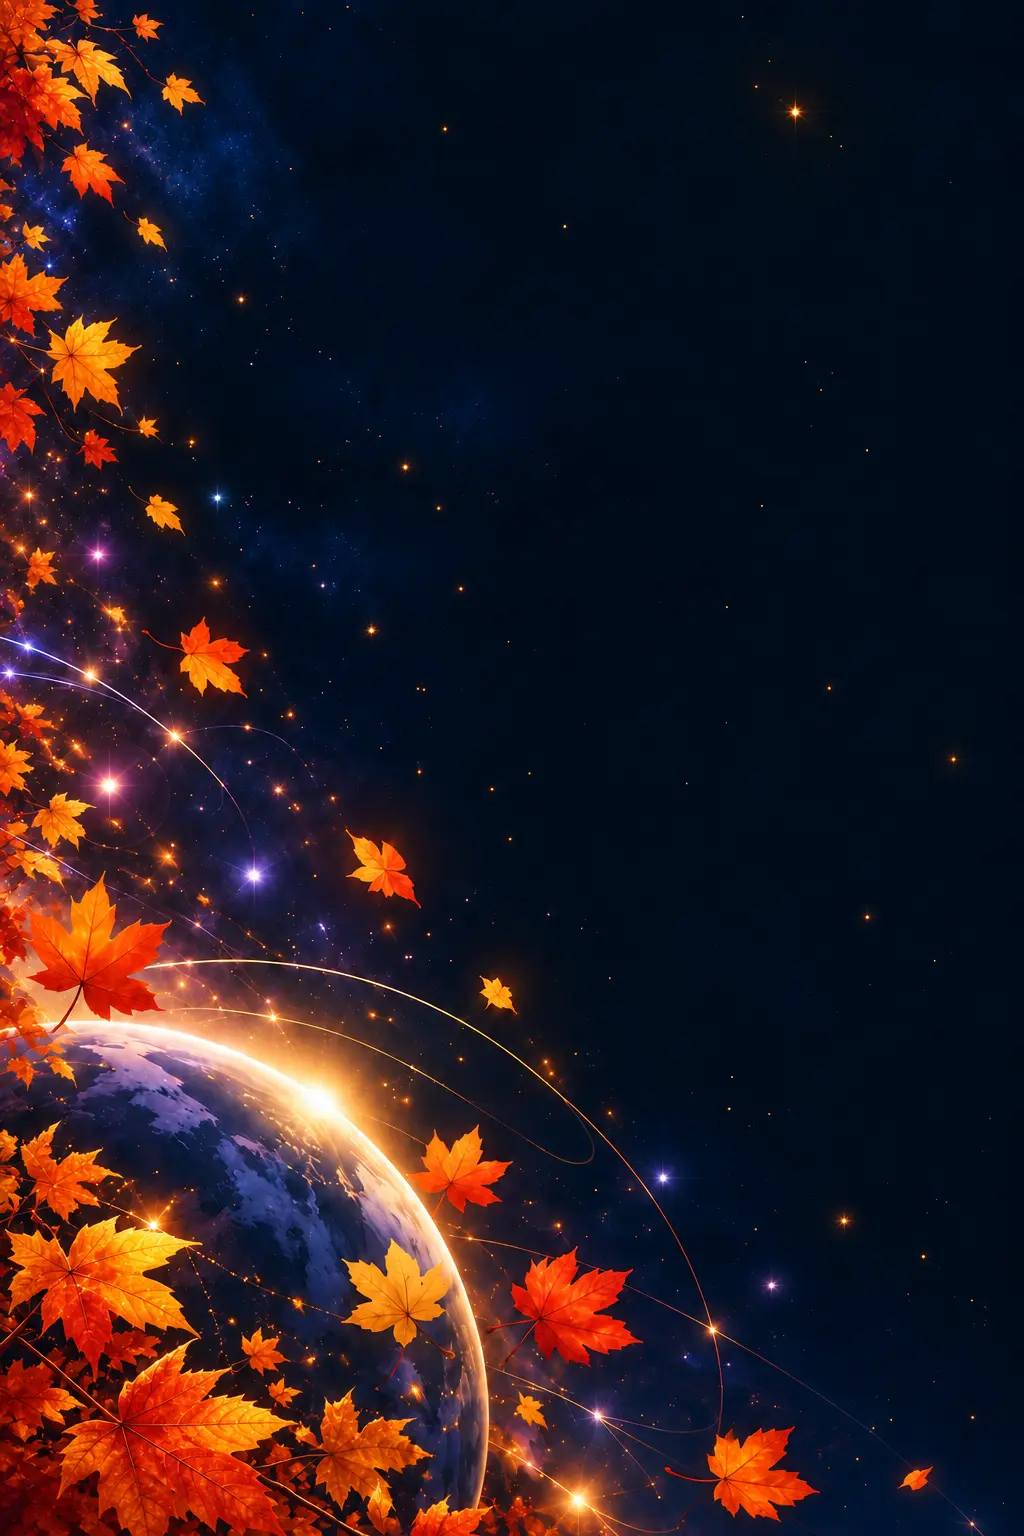
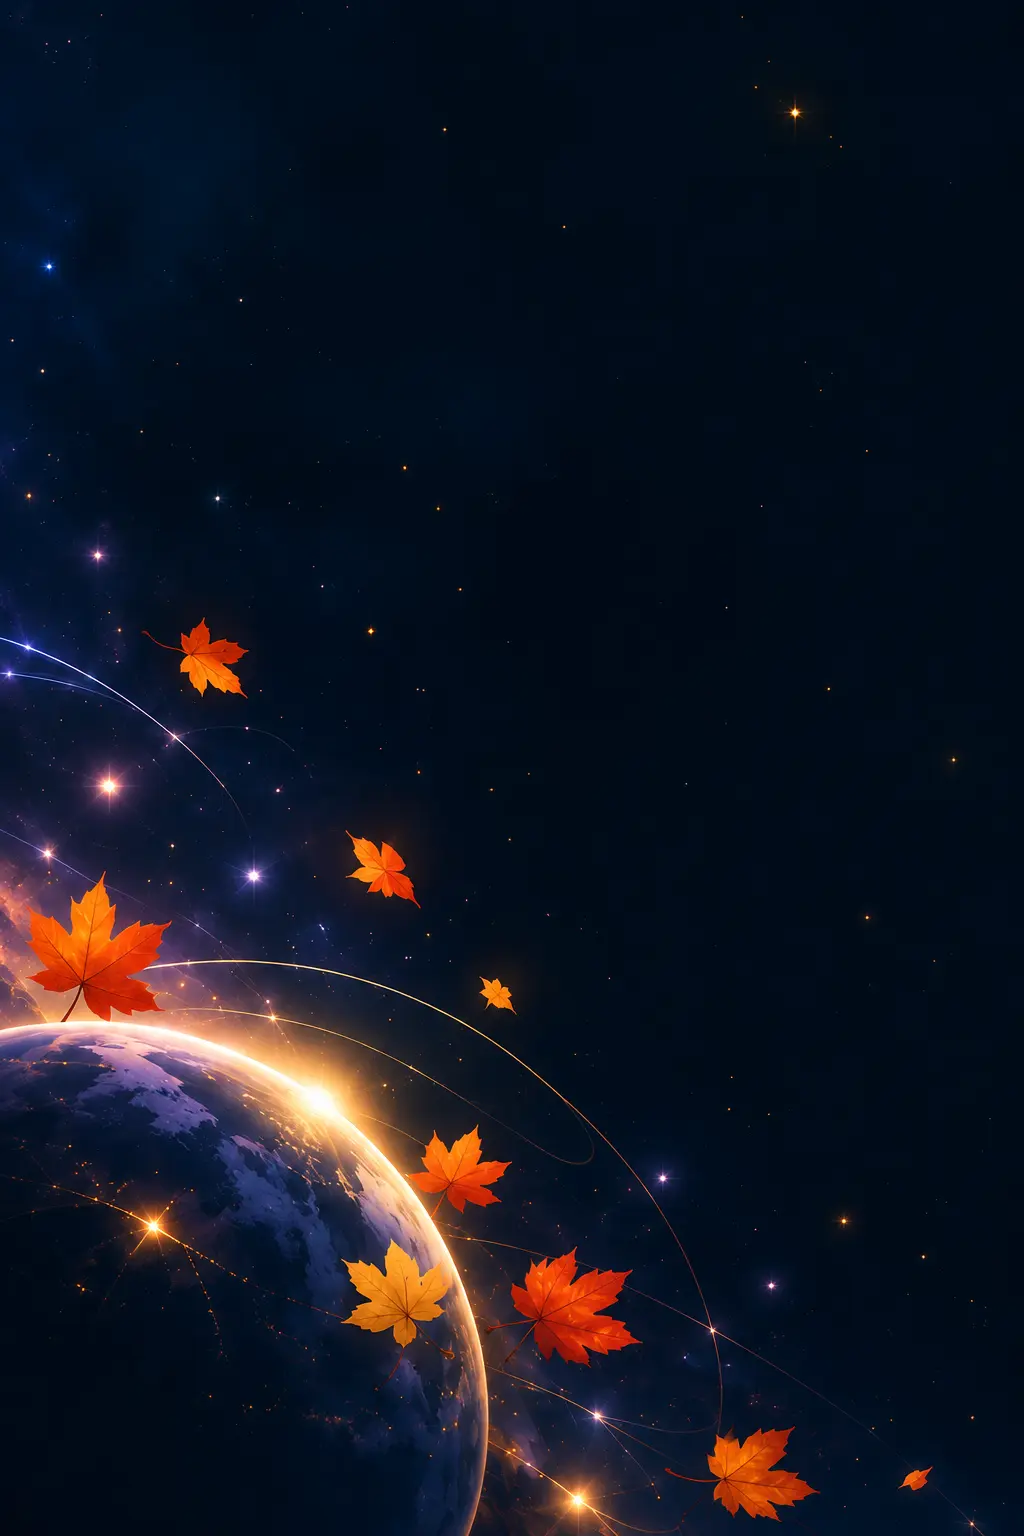
Use restrained seasonal art and separate cosmic workspace

diff --git a/app/journal-bank-finish.css b/app/journal-bank-finish.css
@@ -1,22 +1,10 @@
 /* Seasonal artwork continues into the content column for both roles. */
 html.cosmo-genius-restored .student-content{
-  /* A quiet starfield carries the sidebar's space into the whole screen. */
-  background-color:#041423!important;
-  background-image:
-    radial-gradient(circle at 17px 29px,rgba(191,225,255,.36) 0 .7px,transparent 1.4px),
-    radial-gradient(circle at 108px 86px,rgba(122,195,255,.25) 0 .8px,transparent 1.5px),
-    radial-gradient(circle at 59px 163px,rgba(220,239,255,.18) 0 .6px,transparent 1.3px),
-    radial-gradient(ellipse at 0% 65%,rgba(25,84,141,.18),transparent 38%),
-    linear-gradient(90deg,#041423 0%,#061727 40%,#041321 100%)!important;
-  background-size:271px 223px,337px 307px,463px 401px,cover,cover!important;
-  background-repeat:repeat,repeat,repeat,no-repeat,no-repeat!important;
+  background:#031221 url('/seasons/cosmic-workspace.webp') left top / cover fixed no-repeat!important;
   position:relative;
 }
 html.cosmo-genius-restored .student-content::before{
-  content:"";position:absolute;left:0;top:0;width:190px;height:100dvh;
-  pointer-events:none;background:var(--season-cosmic-art) -255px bottom / auto min(820px,calc(100dvh - 60px)) no-repeat;
-  -webkit-mask-image:linear-gradient(90deg,#000 0%,rgba(0,0,0,.7) 30%,transparent 100%);
-  mask-image:linear-gradient(90deg,#000 0%,rgba(0,0,0,.7) 30%,transparent 100%);
+  content:none!important;
 }
 /* Give each journal control enough room for its complete value. */
 html.cosmo-genius-restored [class*='gradebookHead']{flex-wrap:wrap;align-items:center}
@@ -34,6 +22,6 @@ html.cosmo-genius-restored [class*='lessonEditor'] [class*='classSelect']{width:
 .task-bank-hub>div[hidden]{display:none!important}
 .bank-live-search{padding:10px clamp(12px,2vw,25px) 35px;color:#ecf7ff}.bank-live-search-heading{display:flex;align-items:center;justify-content:space-between;gap:12px;margin:0 0 15px}.bank-live-search-heading strong{font-size:18px}.bank-live-search-heading button{border:1px solid #447da5;border-radius:10px;background:#0b2a44;color:#d5eaff;padding:9px 12px}.bank-live-search-grid{display:grid;grid-template-columns:repeat(3,minmax(0,1fr));gap:13px}.bank-live-search-grid button{display:flex;flex-direction:column;gap:12px;min-width:0;text-align:left;padding:19px;border:1px solid #315a7c;border-radius:17px;background:linear-gradient(145deg,rgba(10,38,65,.95),rgba(6,23,42,.96));color:#f0f8ff;transition:border-color .18s,transform .18s}.bank-live-search-grid button:hover,.bank-live-search-grid button:focus-visible{border-color:#f5ba50;transform:translateY(-2px)}.bank-live-search-grid span{font-size:12px;color:#ffca73}.bank-live-search-grid strong{font-size:17px;line-height:1.4}.bank-live-search-grid p{margin:0;white-space:pre-wrap;color:#bcd1e3;font-size:13px;line-height:1.55;overflow-wrap:anywhere}.bank-live-search-grid em{margin-top:auto;color:#8ecfff;font-size:12px;font-style:normal}
 .teacher-task-bank{color:#e8f3ff}.teacher-task-controls{display:flex;flex-wrap:wrap;gap:12px;margin:16px 0}.teacher-task-controls label{display:grid;gap:6px;color:#9ebbd4;font-size:12px}.teacher-task-controls select,.teacher-task-controls input{min-height:44px;padding:9px 12px;border:1px solid #3973a0;border-radius:11px;background:#091e34;color:#f0f8ff}.teacher-task-controls input{width:min(380px,70vw)}.teacher-task-layout{display:grid;grid-template-columns:minmax(230px,360px) minmax(0,1fr);gap:16px;align-items:start}.teacher-task-list,.teacher-task-detail{padding:14px;border:1px solid #2c597e;border-radius:18px;background:rgba(5,23,40,.91)}.teacher-task-list{display:grid;gap:8px;max-height:72vh;overflow:auto;scrollbar-width:thin;scrollbar-color:#298dcb #06182a}.teacher-task-list>button{text-align:left;display:grid;gap:5px;padding:13px;border:1px solid #325575;border-radius:11px;background:#0b263f;color:#e7f4ff}.teacher-task-list>button:hover,.teacher-task-list>button.active{border-color:#f1b64e;background:#183551}.teacher-task-list small,.teacher-task-detail>small{color:#ffcf83}.teacher-task-list span{display:-webkit-box;-webkit-line-clamp:2;-webkit-box-orient:vertical;overflow:hidden;font-size:12px;color:#a9c6de}.teacher-task-pages{display:flex;align-items:center;justify-content:space-between;gap:8px}.teacher-task-pages button{background:#103550;color:#dcefff;border:1px solid #396d9a;border-radius:8px;padding:8px}.teacher-task-pages button:disabled{opacity:.4}.teacher-task-detail{min-height:270px;padding:20px;line-height:1.6}.teacher-task-detail h2{margin:8px 0 13px}.teacher-task-question{white-space:pre-wrap}.teacher-task-answer{padding:15px;border:1px solid rgba(var(--season-glow-rgb),.45);border-radius:12px;background:rgba(var(--season-glow-rgb),.1)}.teacher-task-answer p{margin:5px 0 0}.teacher-task-detail h3{margin-top:22px}.teacher-task-detail ul{list-style:none;padding:0}.teacher-task-detail li{display:flex;justify-content:space-between;gap:12px;padding:9px 0;border-bottom:1px solid #345570}.teacher-task-detail li strong{color:#8ee3ad;white-space:nowrap}
-@media(max-width:900px){html.cosmo-genius-restored .sidebar-light{background-image:var(--season-cosmic-art),linear-gradient(180deg,#020b16,#03101d)!important;background-size:auto 100dvh,cover!important;background-position:left bottom!important;background-repeat:no-repeat!important}html.cosmo-genius-restored .student-content::before{width:min(110px,30vw);background-position:-180px bottom;background-size:auto min(620px,calc(100dvh - 50px));opacity:.55}.bank-live-search-grid{grid-template-columns:repeat(2,minmax(0,1fr))}.teacher-task-layout{grid-template-columns:1fr}.teacher-task-list{max-height:380px}}
+@media(max-width:900px){html.cosmo-genius-restored .sidebar-light{background-image:var(--season-cosmic-art),linear-gradient(180deg,#020b16,#03101d)!important;background-size:auto 100dvh,cover!important;background-position:left bottom!important;background-repeat:no-repeat!important}.bank-live-search-grid{grid-template-columns:repeat(2,minmax(0,1fr))}.teacher-task-layout{grid-template-columns:1fr}.teacher-task-list{max-height:380px}}
 @media(max-width:620px){.bank-live-search-grid{grid-template-columns:1fr}.bank-live-search{padding:12px 0 32px}}
 @media(max-width:600px){html.cosmo-genius-restored [class*='gradebookHead']{display:grid;gap:10px}html.cosmo-genius-restored [class*='lessonEditor']{width:100%;display:grid!important;grid-template-columns:minmax(0,1fr) minmax(0,1fr)!important}html.cosmo-genius-restored [class*='lessonEditor'] select{width:100%!important;min-width:0!important;max-width:none!important;font-size:12px!important;padding:0 24px 0 9px!important}html.cosmo-genius-restored [class*='lessonEditor'] select:nth-of-type(2){min-width:0!important;grid-column:1/-1;grid-row:2}html.cosmo-genius-restored [class*='lessonEditor'] [class*='classSelect']{width:100%!important;min-width:0!important;grid-column:2;grid-row:1}.teacher-task-detail{padding:15px}}
